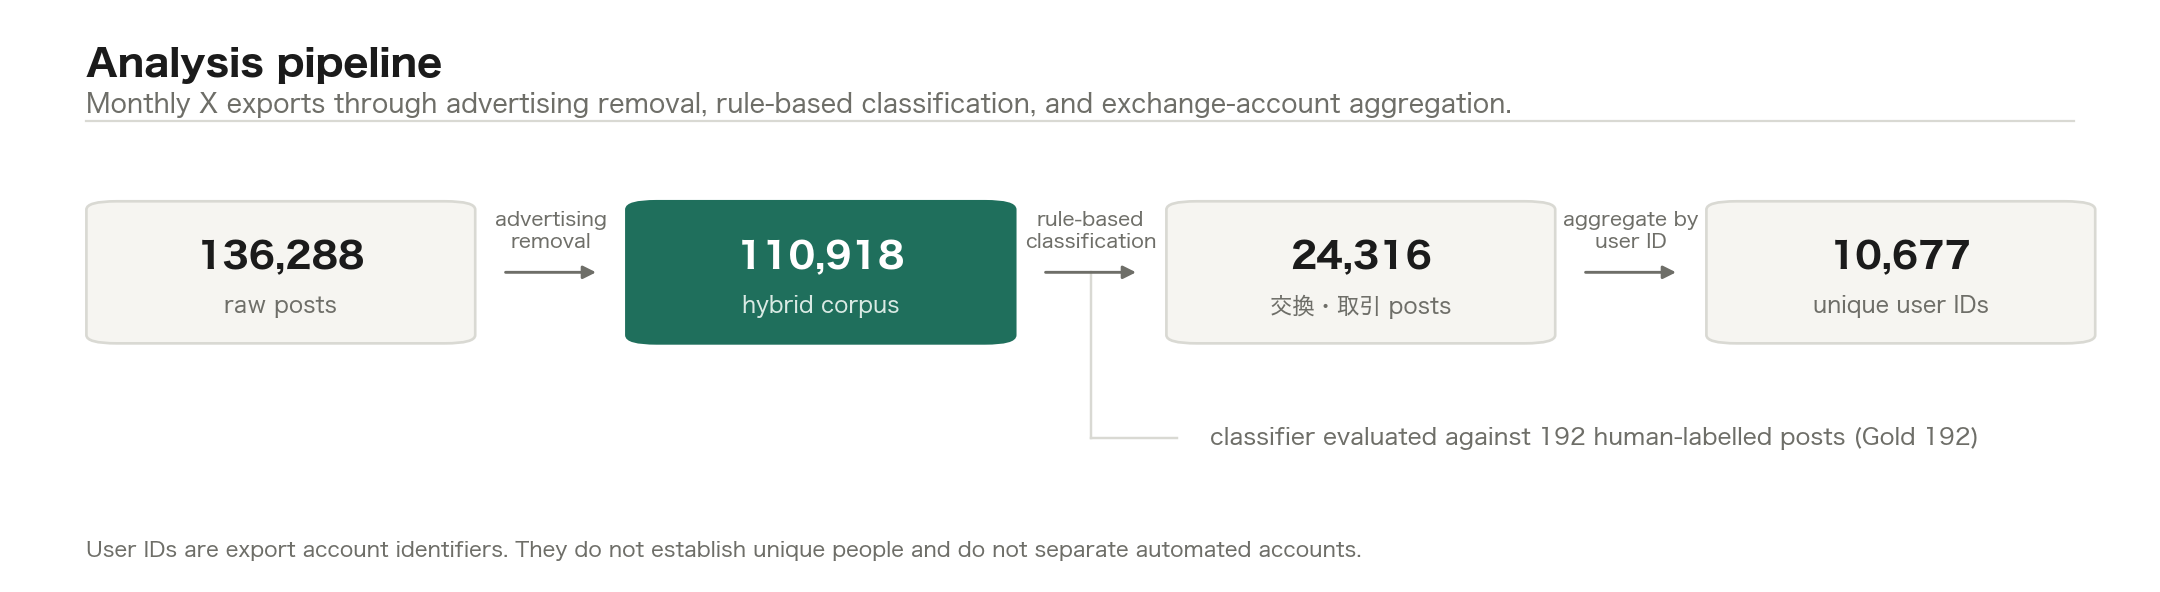
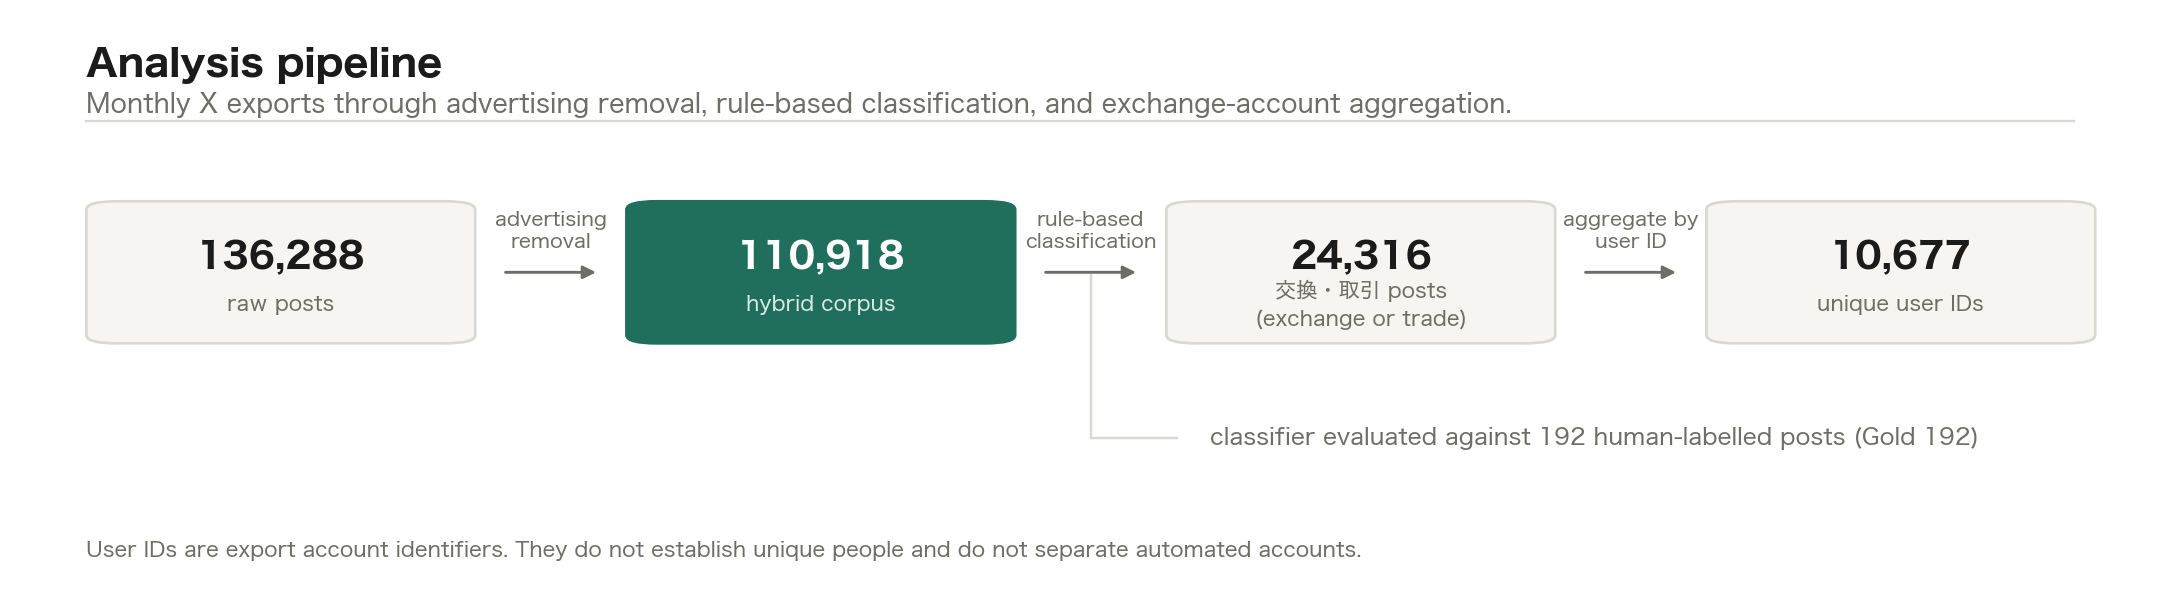
docs: gloss the Japanese category label in the figures
交換・取引 is a dataset label value, so the figures keep it, but they are
also viewed outside the README where the category table explains it. Both
figures now carry the same English gloss the table uses.

diff --git a/make_portfolio_figures.py b/make_portfolio_figures.py
@@ -42,7 +42,11 @@ ACCENT_SOFT = "#A8CCC1"
 LOCK = "#B4532A"
 GREYS = ("#C6C6C0", "#B0B0A9", "#9B9B94")
 
+# Dataset label value, kept in Japanese because that is what the corpus and the
+# classifier output contain.  Figures may be viewed outside the README, so they
+# carry the English gloss used in the README category table.
 EXCHANGE_CATEGORY = "交換・取引"
+EXCHANGE_CATEGORY_GLOSS = "exchange or trade"
 
 # Published baseline.  Sources: docs/hybrid_rebuild.md, docs/baseline_evaluation.md
 # and the repository README.  The renderer refuses to draw if the data no
@@ -279,12 +283,13 @@ def node(
     )
     ax.text(
         x + width / 2,
-        y + height * 0.26,
+        y + height * 0.27,
         label,
-        fontsize=10,
+        fontsize=9.5,
         color=label_color,
         ha="center",
         va="center",
+        linespacing=1.45,
     )
 
 
@@ -319,7 +324,11 @@ def render_pipeline(metrics: Metrics, path: Path) -> None:
     stages = [
         (f"{metrics['source_rows']:,}", "raw posts", False),
         (f"{metrics['hybrid_rows']:,}", "hybrid corpus", True),
-        (f"{metrics['exchange_posts']:,}", f"{EXCHANGE_CATEGORY} posts", False),
+        (
+            f"{metrics['exchange_posts']:,}",
+            f"{EXCHANGE_CATEGORY} posts\n({EXCHANGE_CATEGORY_GLOSS})",
+            False,
+        ),
         (f"{metrics['exchange_accounts']:,}", "unique user IDs", False),
     ]
     width, height, gap = 18.0, 24.0, 7.0
@@ -500,7 +509,8 @@ def render_exchange_concentration(metrics: Metrics, path: Path) -> None:
     title_block(
         head,
         "Exchange activity is spread across many one-off accounts",
-        f"{metrics['exchange_posts']:,} {EXCHANGE_CATEGORY} posts from "
+        f"{metrics['exchange_posts']:,} {EXCHANGE_CATEGORY} "
+        f"({EXCHANGE_CATEGORY_GLOSS}) posts from "
         f"{metrics['exchange_accounts']:,} unique user IDs.",
     )
     footnote(
